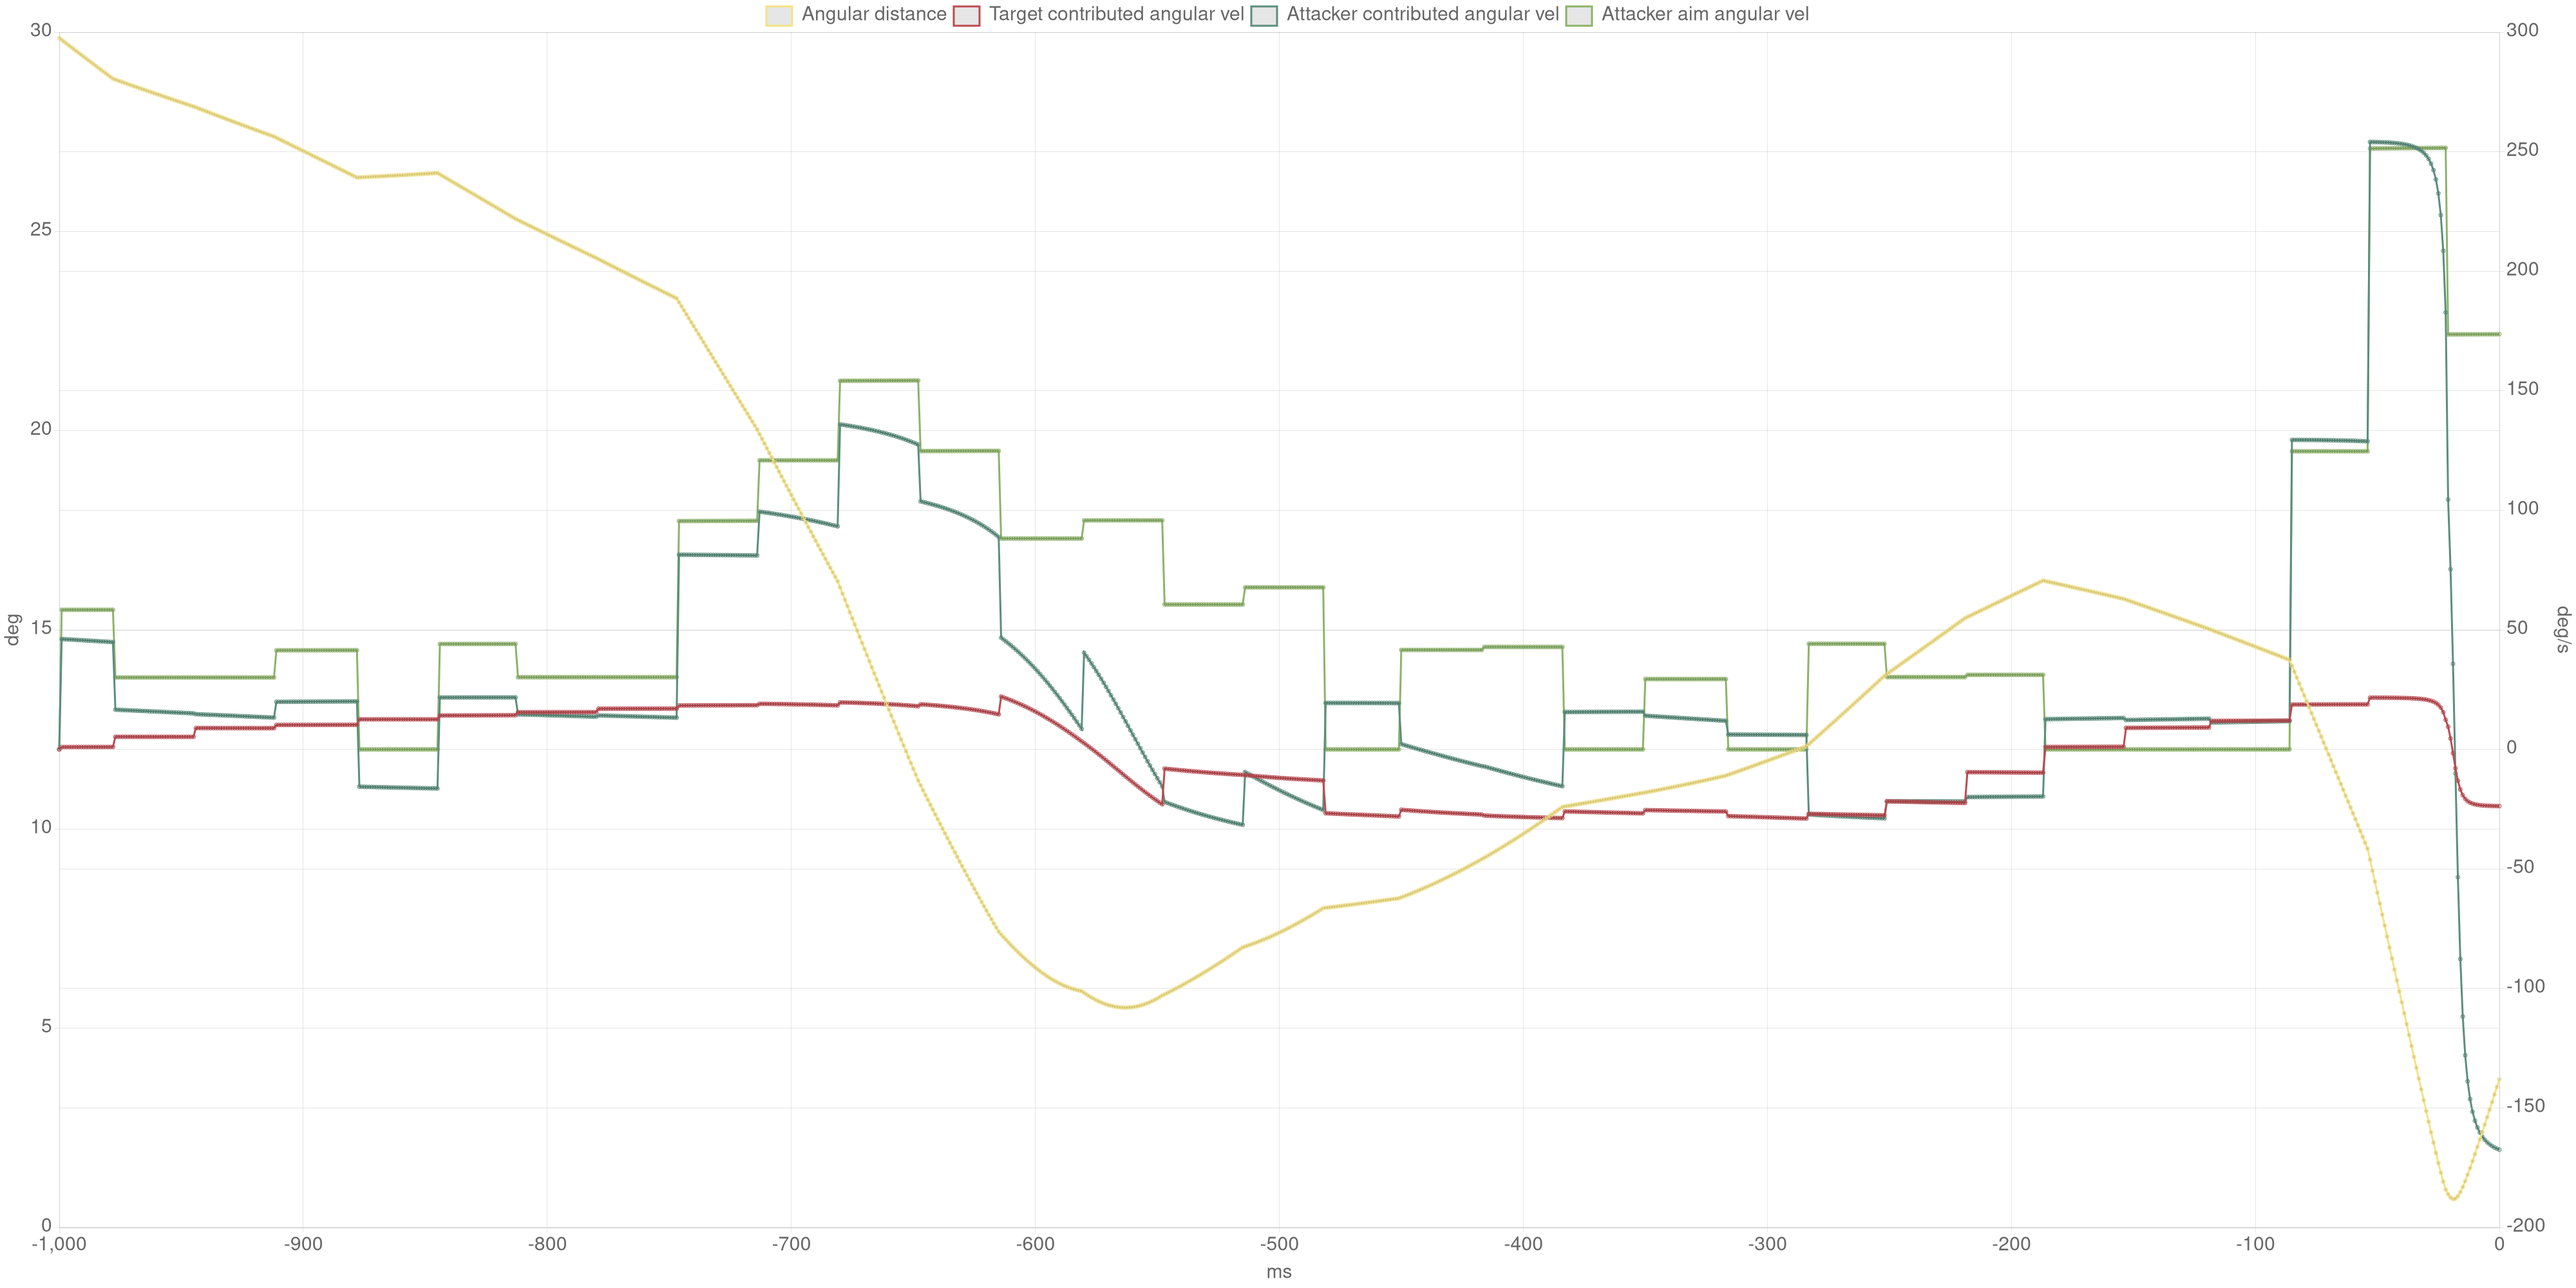
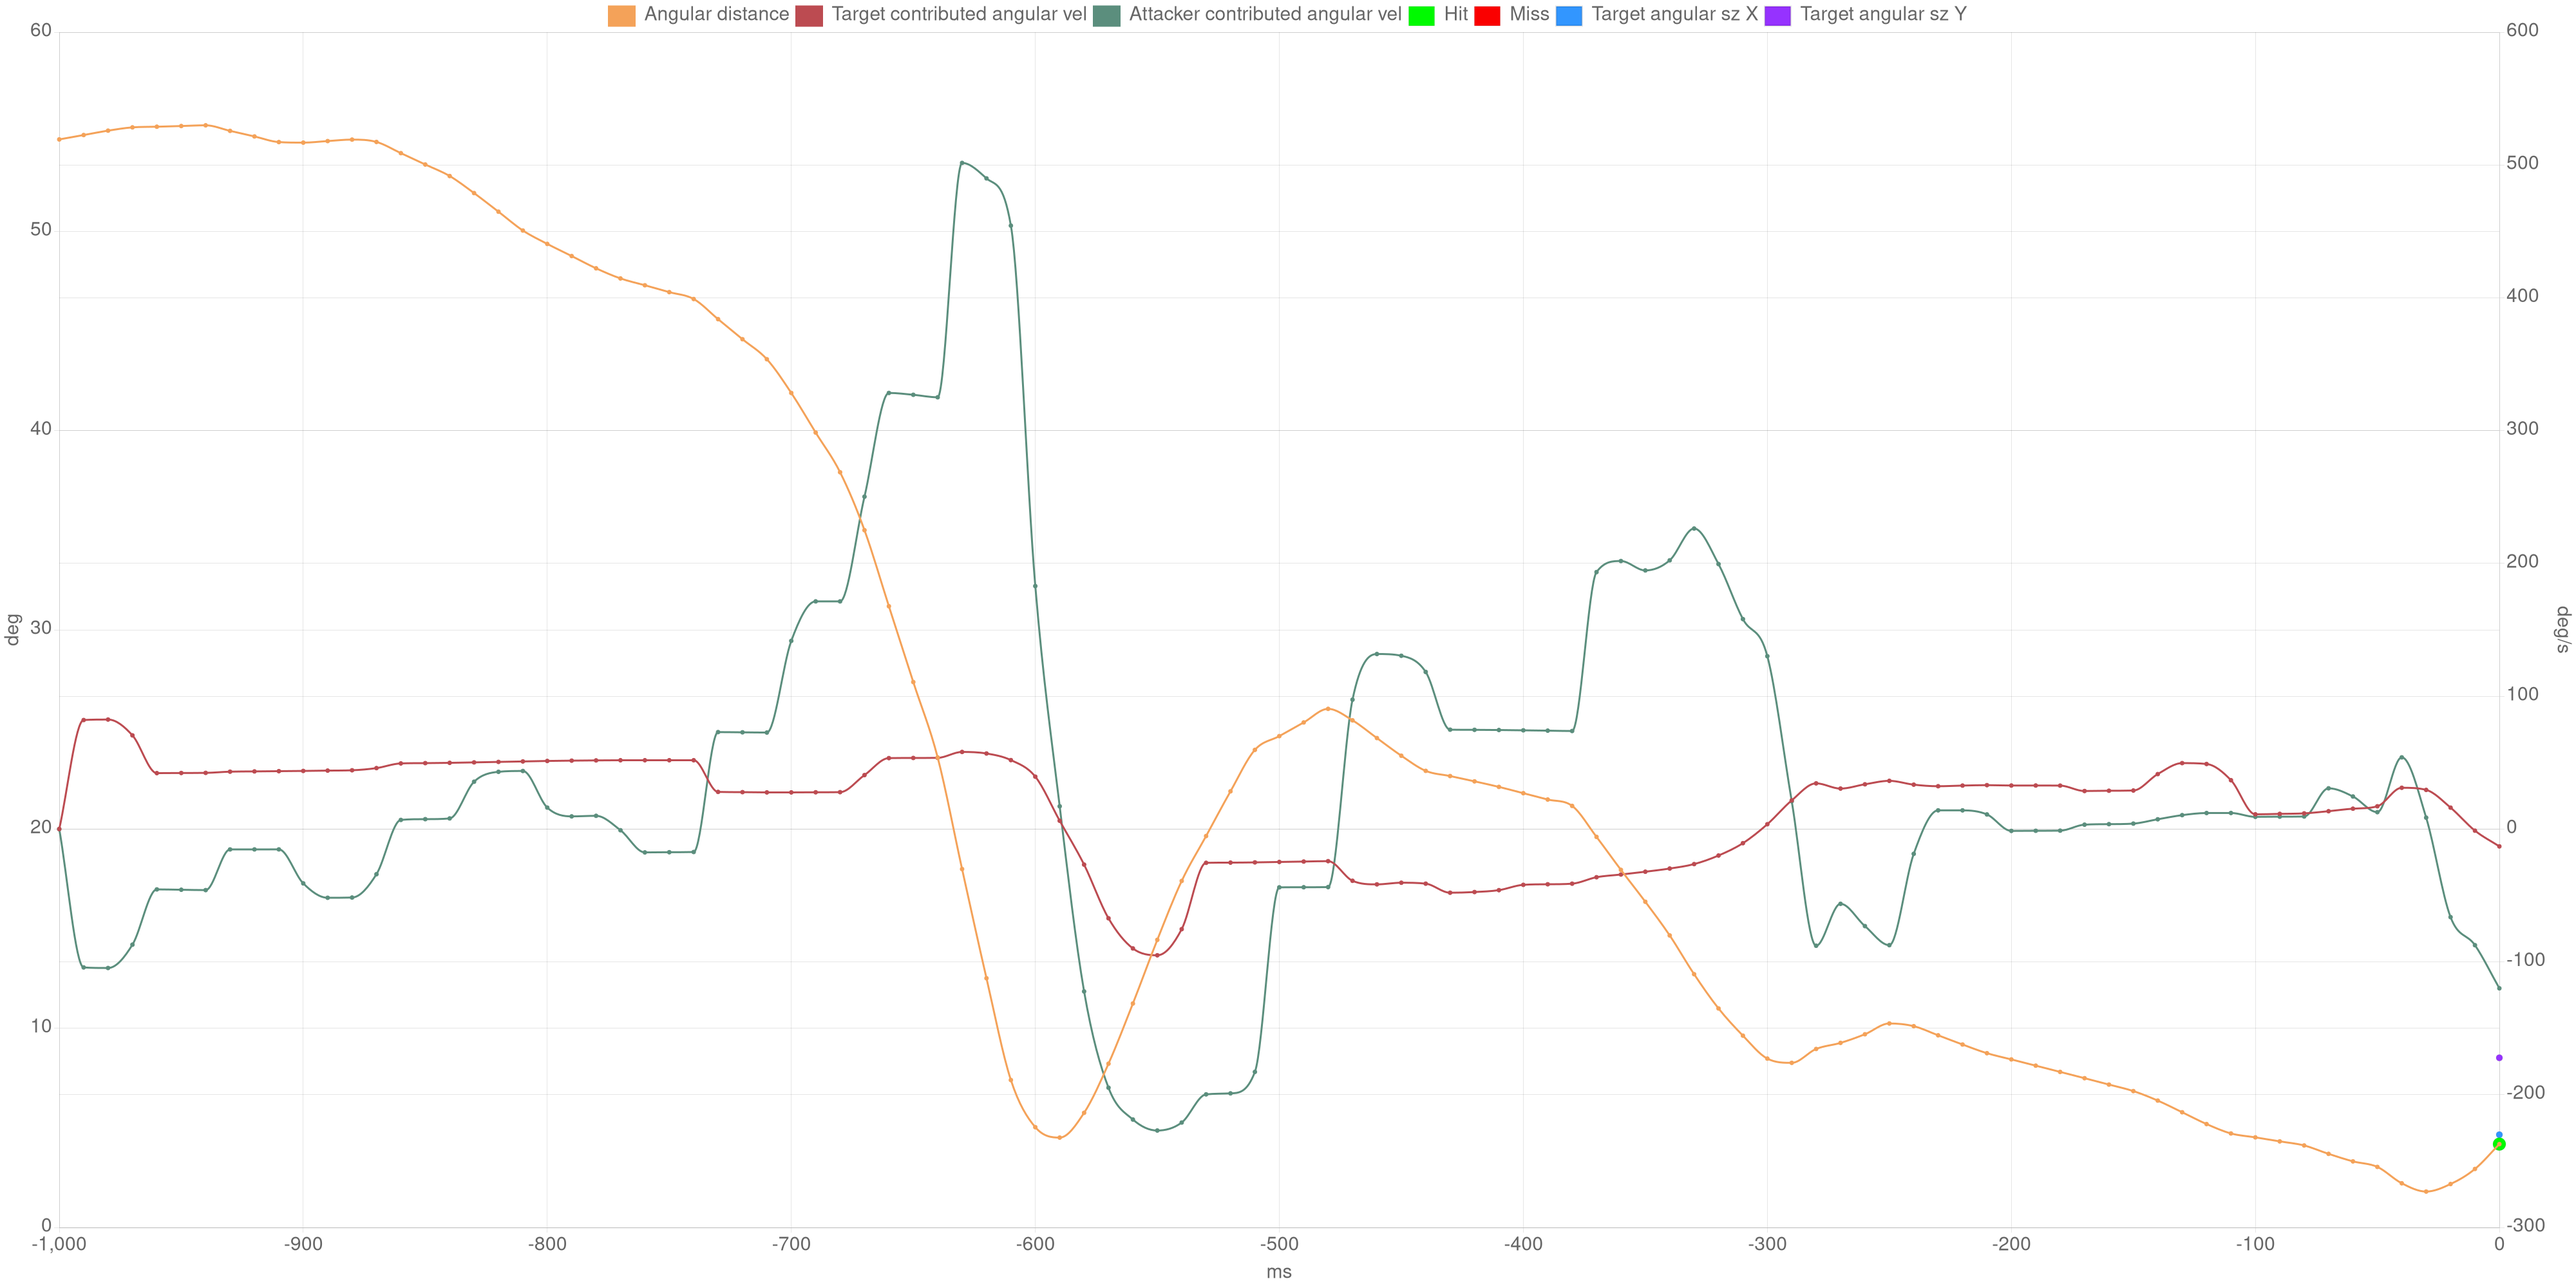
better charts

diff --git a/src/angular-dist.ts b/src/angular-dist.ts
@@ -1,5 +1,5 @@
 import { GameState, Position, GunNames, Filter } from 'dmo-expositor/build/src/lib.js';
-import { getAngularDist, getDist, lookAngDiff, renderPNG } from './utils.js';
+import { getAngularDist, getAngularEstSz, getDist, renderPNG } from './utils.js';
 import { open } from 'node:fs/promises';
 import { ChartConfiguration } from 'chart.js';
 import path from 'node:path';
@@ -19,7 +19,6 @@ interface DataItem {
   adist: number,
   tavel: number,
   aavel: number,
-  alvel: number,
 }
 
 type UnpackFilter<T> = T extends Filter<(infer U)[]> ? U : never;
@@ -54,8 +53,9 @@ function makeFilter(gameState: GameState, {tcn, acn, gun, interval}: Options) {
         if (apos && tpos) {
           const adist = getAngularDist(tpos.value, apos.value);
           const dist = getDist(tpos.value, apos.value);
+          const { ax, ay } = getAngularEstSz(tpos.value, apos.value);
           if (Math.abs(adist) < 30) {
-            return { tcn, acn, ...ev, isHit, adist, dist };
+            return { tcn, acn, ...ev, isHit, adist, dist, ax, ay };
           }
         }
       }
@@ -67,6 +67,7 @@ function makeFilter(gameState: GameState, {tcn, acn, gun, interval}: Options) {
 }
 
 function processData(filter: ReturnType<typeof makeFilter>, gameState: GameState, {acn, tcn}: Options) {
+  const step = 10;
   return gameState.reduceFilteredTime(filter, new AlgState(), (state, ts, data) => {
     const tpos = gameState.getPos(tcn, ts)?.value;
     const apos = gameState.getPos(acn, ts)?.value;
@@ -83,20 +84,18 @@ function processData(filter: ReturnType<typeof makeFilter>, gameState: GameState
       const array = acc.get(sts)!;
       let tavel = 0;
       let aavel = 0;
-      let alvel = 0;
       if (state.lasttpos && state.lastapos) {
         const deltaA = getAngularDist(tpos, state.lastapos) - adist;
         const deltaT = getAngularDist(state.lasttpos, apos) - adist;
-        alvel = lookAngDiff(apos, state.lastapos) * 1000;
-        tavel = deltaT * 1000;
-        aavel = deltaA * 1000;
+        tavel = deltaT / step * 1000;
+        aavel = deltaA / step * 1000;
       }
-      array.push({ts: ts-sts, tpos, apos, adist, tavel, aavel, alvel});
+      array.push({ts: ts-sts, tpos, apos, adist, tavel, aavel});
     }
     state.lasttpos = tpos;
     state.lastapos = apos;
     return state;
-  })
+  }, step);
 }
 
 async function plot(acc: AlgState, {acn, tcn, gun, dir}: Options) {
@@ -109,9 +108,12 @@ async function plot(acc: AlgState, {acn, tcn, gun, dir}: Options) {
     const tavel = srs.map(item => item.tavel);
     const aavel = srs.map(item => item.aavel);
     const evs = acc.evs.get(sts)!;
-    const dist = evs.map(ev => ({ x: ev.timestamp - sts, y: ev.dist, isHit: ev.isHit }));
-    const hits = dist.filter(ev => ev.isHit);
-    const miss = dist.filter(ev => !ev.isHit);
+    const adist = evs.map(ev => ({ x: ev.timestamp - sts, y: ev.adist, isHit: ev.isHit }));
+    const aszx = evs.map(ev => ({ x: ev.timestamp - sts, y: ev.ax }));
+    const aszy = evs.map(ev => ({ x: ev.timestamp - sts, y: ev.ay }));
+
+    const hits = adist.filter(ev => ev.isHit);
+    const miss = adist.filter(ev => !ev.isHit);
     const config: ChartConfiguration = {
       type: 'line' as const,
       data: {
@@ -121,40 +123,60 @@ async function plot(acc: AlgState, {acn, tcn, gun, dir}: Options) {
             label: `Angular distance`,
             data,
             borderColor: 'rgb(244, 162, 89)',
-            spanGaps: false,
+            backgroundColor: 'rgb(244, 162, 89)',
+            cubicInterpolationMode: 'monotone',
+            tension: 1,
             yAxisID: 'angle-y-axis'
           },
           {
             label: `Target contributed angular vel`,
             data: tavel,
             borderColor: 'rgb(188, 75, 81)',
-            spanGaps: false,
+            backgroundColor: 'rgb(188, 75, 81)',
+            cubicInterpolationMode: 'monotone',
+            tension: 1,
             yAxisID: 'avel-y-axis'
           },
           {
             label: `Attacker contributed angular vel`,
             data: aavel,
             borderColor: 'rgb(91, 142, 125)',
-            spanGaps: false,
+            backgroundColor: 'rgb(91, 142, 125)',
+            cubicInterpolationMode: 'monotone',
+            tension: 1,
             yAxisID: 'avel-y-axis'
           },
           {
             label: `Hit`,
             data: hits,
             type: 'scatter',
-            pointBackgroundColor: 'rgb(0, 200, 0)',
+            pointBackgroundColor: 'rgb(0, 250, 0)',
             pointRadius: 10,
-            spanGaps: false,
-            yAxisID: 'dist-y-axis'
+            yAxisID: 'angle-y-axis'
           },
           {
             label: `Miss`,
             data: miss,
             type: 'scatter',
-            pointBackgroundColor: 'rgb(200, 0, 0)',
+            pointBackgroundColor: 'rgb(250, 0, 0)',
             pointRadius: 10,
-            spanGaps: false,
-            yAxisID: 'dist-y-axis'
+            yAxisID: 'angle-y-axis'
+          },
+          {
+            label: `Target angular sz X`,
+            data: aszx,
+            type: 'line',
+            backgroundColor: 'rgb(50, 150, 255)',
+            pointRadius: 5,
+            yAxisID: 'angle-y-axis'
+          },
+          {
+            label: `Target angular sz Y`,
+            data: aszy,
+            type: 'line',
+            backgroundColor: 'rgb(150, 50, 255)',
+            pointRadius: 5,
+            yAxisID: 'angle-y-axis'
           },
         ]
       },
@@ -175,6 +197,7 @@ async function plot(acc: AlgState, {acn, tcn, gun, dir}: Options) {
               text: 'deg',
               display: true,
             },
+            min: 0,
           },
           'avel-y-axis': {
             type: 'linear',
@@ -185,16 +208,6 @@ async function plot(acc: AlgState, {acn, tcn, gun, dir}: Options) {
               display: true,
             },
           },
-          'dist-y-axis': {
-            type: 'linear',
-            display: true,
-            position: 'left',
-            title: {
-              text: 'units',
-              display: true,
-            },
-            min: 0,
-          }
         },
       }
     };
